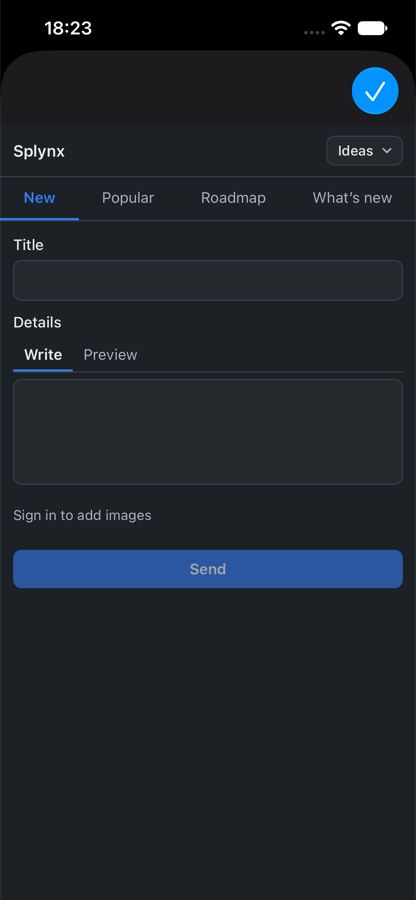
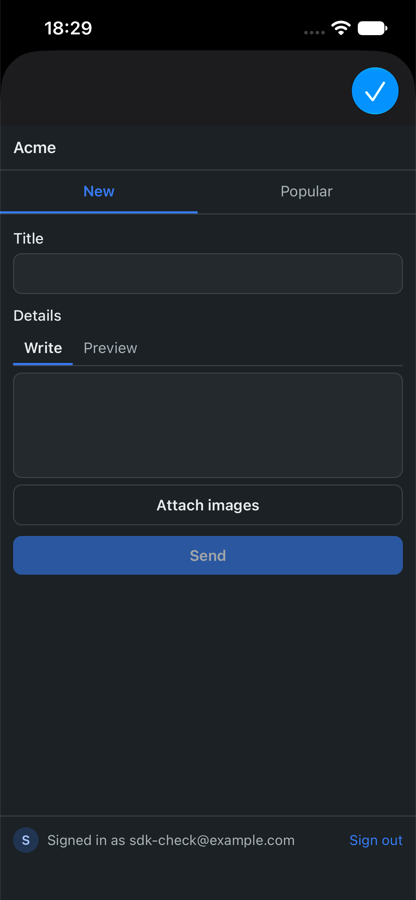
fix: the sample needs your board, logs out fully, and keeps one event handler
From /code-review: no default board (it posted to a live one), Log out also stops the token provider, one shared
model for all windows (events, the badge, the scripted checks), the badge ignores a fetch older than an event,
no force-unwrap of launch arguments, the localhost ATS exception on macOS too, a real iOS Info.plist (scenes,
orientations); README: account switch and what is sent before the sheet opens; neutral screenshots.

Claude-Session: https://claude.ai/code/session_01SGFuYcbiG5zyXc1gzY6ACS

diff --git a/Examples/Sample/Sources/ContentView.swift b/Examples/Sample/Sources/ContentView.swift
@@ -2,15 +2,17 @@ import SwiftUI
 import AntNexo
 
 struct ContentView: View {
+    @EnvironmentObject private var model: SampleModel
     @State private var showFeedback = false
     @State private var showRoadmap = false
-    @State private var unread = 0
     @State private var token = ""
-    @State private var events: [String] = []
 
     var body: some View {
         NavigationView {
             Form {
+                if let error = model.configError {
+                    Section { Text(error).foregroundColor(.red) }
+                }
                 Section {
                     Button("Send feedback") { showFeedback = true }
                     Button("Roadmap") { showRoadmap = true }
@@ -21,14 +23,15 @@ struct ContentView: View {
                         HStack {
                             Text("What's new")
                             Spacer()
-                            if unread > 0 {
-                                Text("\(unread)").font(.caption.bold()).foregroundColor(.white)
+                            if model.unread > 0 {
+                                Text("\(model.unread)").font(.caption.bold()).foregroundColor(.white)
                                     .padding(.horizontal, 7).padding(.vertical, 2)
                                     .background(Capsule().fill(Color.red))
                             }
                         }
                     }
                 }
+                .disabled(model.configError != nil)
                 Section {
                     TextField("Identify token (from your backend)", text: $token)
                         .disableAutocorrection(true)
@@ -36,14 +39,20 @@ struct ContentView: View {
                         let t = token
                         AntNexo.identify(t.isEmpty ? nil : { @Sendable in t })
                     }
-                    Button("Log out") { Task { await AntNexo.logout() } }
+                    Button("Log out") {
+                        // an account switch: stop handing out the old person's token, then clear the sheet's session
+                        token = ""
+                        AntNexo.identify(nil)
+                        Task { await AntNexo.logout() }
+                    }
                 } header: {
                     Text("Identify")
                 } footer: {
                     Text("A real app gets the token from its own backend, which signs it with the workspace's identify secret.")
                 }
+                .disabled(model.configError != nil)
                 Section {
-                    ForEach(Array(events.enumerated()), id: \.offset) { Text($0.element).font(.caption.monospaced()) }
+                    ForEach(Array(model.events.enumerated()), id: \.offset) { Text($0.element).font(.caption.monospaced()) }
                 } header: {
                     Text("Events")
                 }
@@ -52,18 +61,6 @@ struct ContentView: View {
         }
         .antnexoFeedback(isPresented: $showFeedback, tab: .new)
         .antnexoFeedback(isPresented: $showRoadmap, tab: .roadmap)
-        .task {
-            AntNexo.onEvent = { e in
-                events.insert(String(describing: e), at: 0)
-                #if DEBUG
-                Scenario.log("event \(e)")
-                #endif
-                if case .unread(let n) = e { unread = n }
-            }
-            unread = (try? await AntNexo.unreadCount()) ?? 0
-            #if DEBUG
-            await Scenario.runIfAsked()
-            #endif
-        }
+        .task { await model.start() }
     }
 }

diff --git a/Examples/Sample/Sources/SampleApp.swift b/Examples/Sample/Sources/SampleApp.swift
@@ -1,27 +1,62 @@
 import SwiftUI
 import AntNexo
 
-/// The board the sample opens: our test workspace by default; `-host` and `-workspace` launch arguments override it.
-enum SampleConfig {
-    static var host: URL {
-        URL(string: UserDefaults.standard.string(forKey: "host") ?? "https://splynx.antnexo.com")!
+/// The sample's state, shared by all its windows: AntNexo's events go to one place.
+@MainActor
+final class SampleModel: ObservableObject {
+    /// Why the SDK isn't configured, if it isn't.
+    @Published var configError: String?
+    @Published var unread = 0
+    @Published var events: [String] = []
+    /// Bumped by every .unread event: a slower badge fetch that started earlier mustn't overwrite it.
+    private var unreadVersion = 0
+    private var started = false
+
+    init() {
+        // Your board: pass `-host https://<slug>.antnexo.com -workspace <slug>` as launch arguments
+        // (Edit Scheme → Run → Arguments). There is no default, so the sample never posts to someone else's board.
+        let d = UserDefaults.standard
+        guard let host = d.string(forKey: "host").flatMap(URL.init(string:)), let workspace = d.string(forKey: "workspace") else {
+            configError = "Set -host https://<slug>.antnexo.com and -workspace <slug> in the scheme's launch arguments."
+            return
+        }
+        do {
+            try AntNexo.configure(host: host, workspace: workspace)
+        } catch {
+            configError = "AntNexo.configure failed: \(error)"
+        }
     }
-    static var workspace: String { UserDefaults.standard.string(forKey: "workspace") ?? "splynx" }
+
+    /// Once per app, whichever window appears first.
+    func start() async {
+        guard !started, configError == nil else { return }
+        started = true
+        AntNexo.onEvent = { [weak self] e in
+            guard let self else { return }
+            events.insert(String(describing: e), at: 0)
+            #if DEBUG
+            Scenario.log("event \(e)")
+            #endif
+            if case .unread(let n) = e {
+                unreadVersion += 1
+                unread = n
+            }
+        }
+        let version = unreadVersion
+        if let n = try? await AntNexo.unreadCount(), version == unreadVersion { unread = n }
+        #if DEBUG
+        await Scenario.runIfAsked()
+        #endif
+    }
 }
 
 @main
 struct SampleApp: App {
-    init() {
-        do {
-            try AntNexo.configure(host: SampleConfig.host, workspace: SampleConfig.workspace)
-        } catch {
-            print("AntNexo.configure failed: \(error)")
-        }
-    }
+    @StateObject private var model = SampleModel()
 
     var body: some Scene {
         WindowGroup {
-            ContentView()
+            ContentView().environmentObject(model)
         }
     }
 }

diff --git a/Sources/AntNexo/DeviceContext.swift b/Sources/AntNexo/DeviceContext.swift
@@ -52,9 +52,9 @@ private func deviceModel() -> String? {
     var size = 0
     sysctlbyname("hw.model", nil, &size, nil, 0)
     guard size > 0 else { return nil }
-    var buf = [CChar](repeating: 0, count: size)
+    var buf = [UInt8](repeating: 0, count: size)
     sysctlbyname("hw.model", &buf, &size, nil, 0)
-    return String(cString: buf)
+    return String(decoding: buf.prefix { $0 != 0 }, as: UTF8.self)
     #else
     if let sim = ProcessInfo.processInfo.environment["SIMULATOR_MODEL_IDENTIFIER"] { return sim }
     var u = utsname()

diff --git a/README.md b/README.md
@@ -88,9 +88,11 @@ The provider is called each time the sheet opens; if it fails, returns nil or ta
 opens anyway and the person can sign in our way. **Never put the identify secret in the app.** The token goes to the
 page through the bridge, never in a URL or a log.
 
-On every account switch (sign out, another user), call:
+On every account switch (sign out, another user), make the provider stop returning the old person's token and clear
+the sheet's session:
 
 ```swift
+AntNexo.identify(nil)          // or a provider for the new account
 await AntNexo.logout()
 ```
 
@@ -130,7 +132,8 @@ AntNexo.onEvent = { event in
 
 ## Privacy
 
-Nothing is collected before the sheet opens. With a post the SDK sends the app's name, version and build, the OS and
+Nothing personal is sent before the sheet opens: the only earlier request is the public changelog, when you call
+`unreadCount()` for a badge. With a post the SDK sends the app's name, version and build, the OS and
 its version, the device model (`iPhone16,2`), the locale and the SDK version — no device identifiers, no IDFA, no
 tracking. Your workspace shows them on the post in the admin; erasing a person removes them.
 
@@ -154,8 +157,8 @@ tracking. Your workspace shows them on the post in the admin; erasing a person r
 
 ## Sample app
 
-`Examples/Sample` (iOS and macOS): open `Sample.xcodeproj` and run. It opens our test workspace by default; pass
-`-host https://<slug>.antnexo.com -workspace <slug>` as launch arguments for yours. The project is generated with
+`Examples/Sample` (iOS and macOS): open `Sample.xcodeproj`, set your board in **Edit Scheme → Run → Arguments**
+(`-host https://<slug>.antnexo.com -workspace <slug>`) and run. The project is generated with
 [XcodeGen](https://github.com/yonaskolb/XcodeGen) from `project.yml`.
 
 ## Licence
